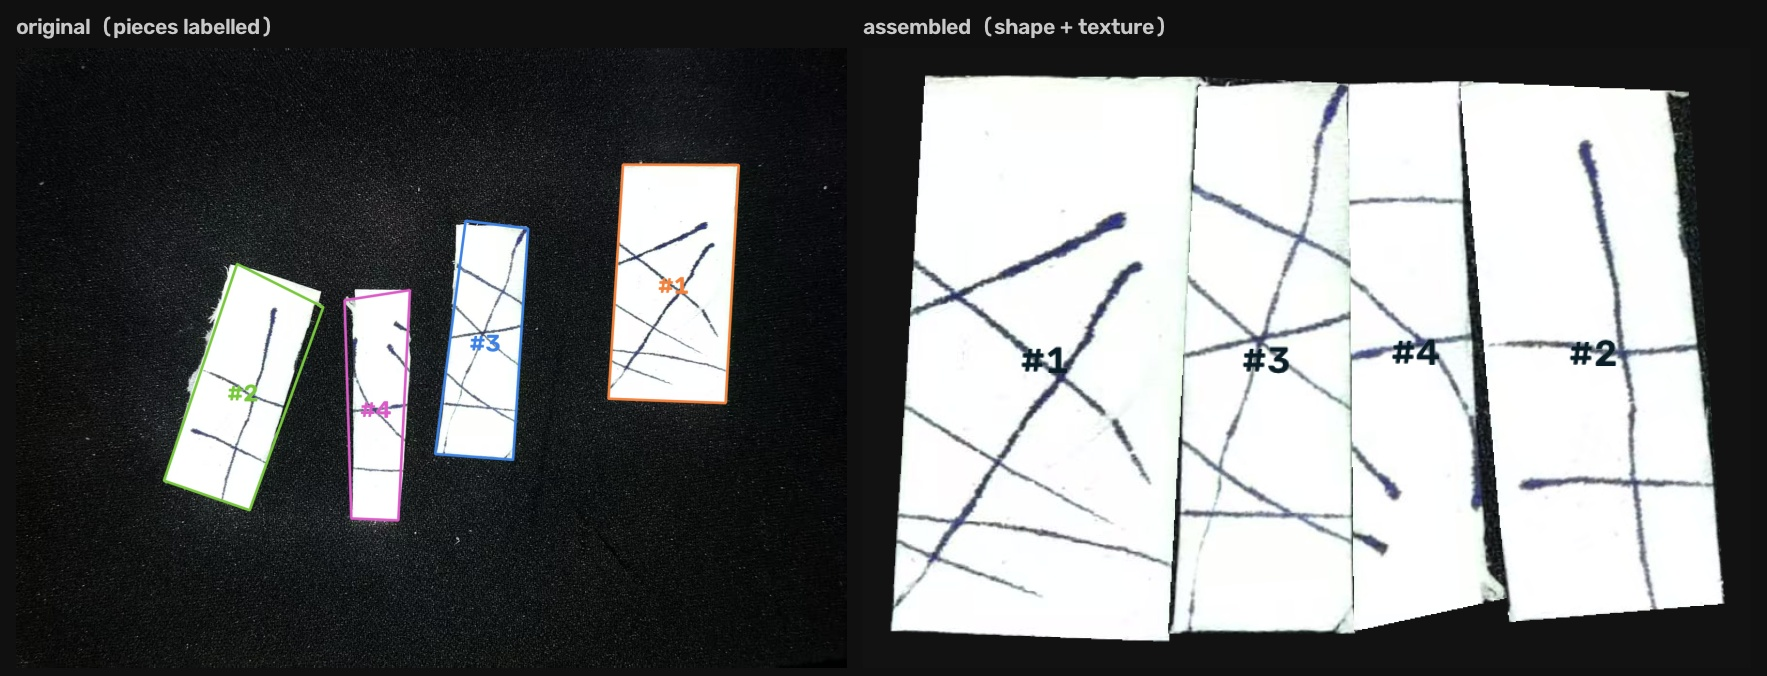
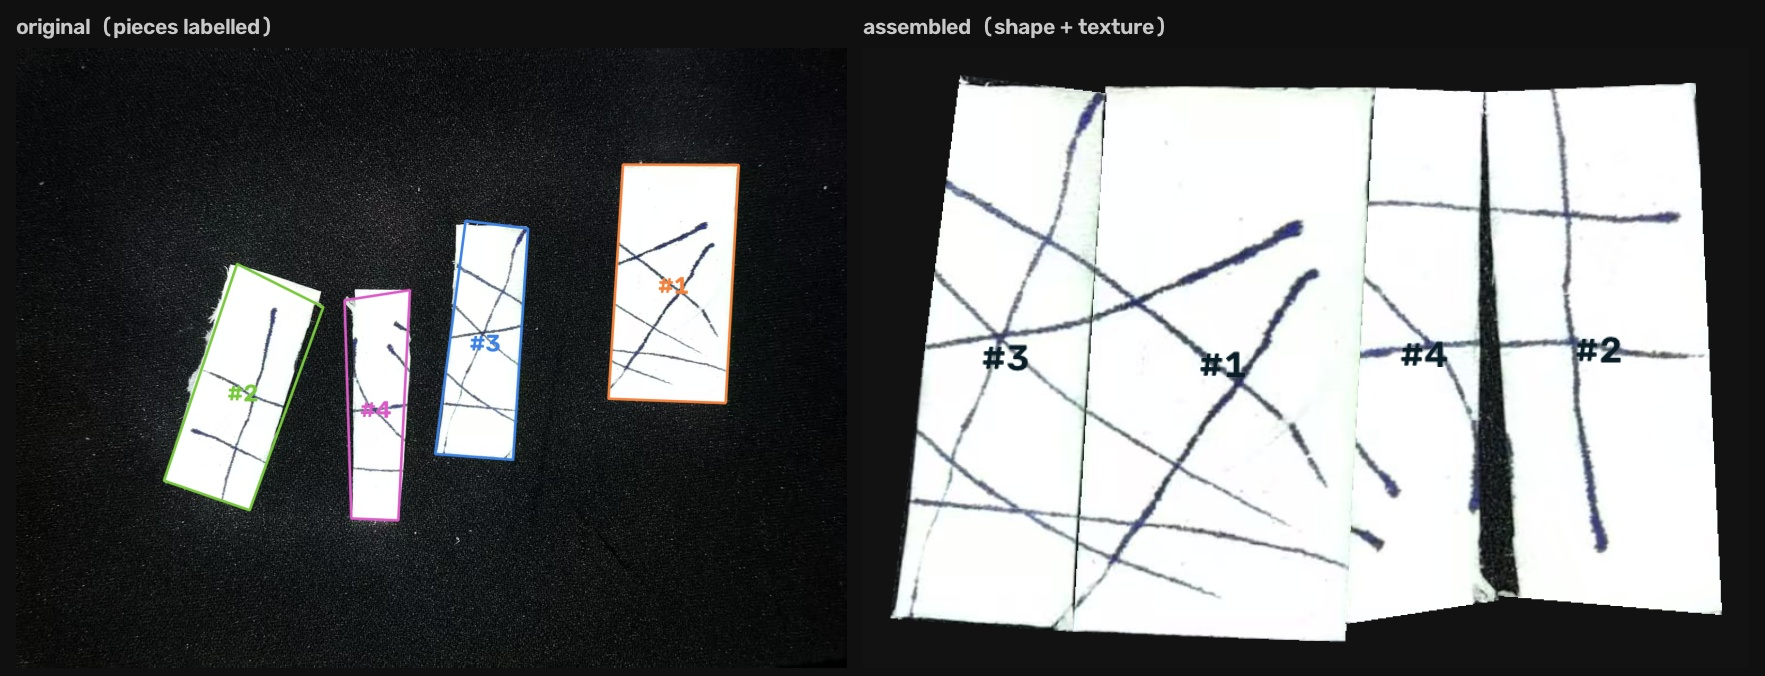
Revert "fix(拼装): 完整解排序改成「内部接触边总长最大」，修好「两个整体需要相对旋转才能接上」的情况"
This reverts commit 2774f76582a21e41ab2113fc2caf3682dd8f9cde.

diff --git a/纹理拼合/tools/irregular_cut.py b/纹理拼合/tools/irregular_cut.py
@@ -27,7 +27,6 @@ import cv2
 import numpy as np
 from scipy.spatial import Voronoi
 from shapely.geometry import Polygon as SPoly, box as sbox
-from shapely.ops import unary_union
 
 PROJ = Path(__file__).resolve().parents[2] / "拼图还原项目"
 SRC = PROJ / "src"
@@ -205,70 +204,9 @@ def _texture_cost(img, pose_a, pose_b, aw, bw, side, k: float = 0.35,
 
 
 
-def _rect_fill(polys: list[np.ndarray]) -> float:
-    """拼装结果和它的最小外接矩形有多贴合（0~1）。4 条撕裂纸条拼对了就该接近 1。"""
-    ps = [SPoly(p).buffer(0) for p in polys]
-    u = unary_union(ps)
-    rect = u.minimum_rotated_rectangle
-    return float(u.area / rect.area) if getattr(rect, "area", 0) else 0.0
-
-
-def _union_stats(polys: list[np.ndarray]) -> dict:
-    """并集的三个量：覆盖率（最大连通块占全部面积）、矩形贴合、空洞。
-
-    只看「矩形贴合」会被钻空子 —— 四块并排摆着但各不相连，并集的最小外接矩形
-    照样很大，贴合率能到 96%。所以必须同时要求**接成一片**（覆盖率≈1）。
-    """
-    ps = [SPoly(p).buffer(0) for p in polys]
-    total = sum(p.area for p in ps) or 1.0
-    u = unary_union(ps)
-    if u.geom_type == "MultiPolygon":
-        parts = sorted(u.geoms, key=lambda g: -g.area)
-        main, n_parts = parts[0], len(parts)
-    else:
-        main, n_parts = u, 1
-    rect = main.minimum_rotated_rectangle
-    holes = sum(abs(SPoly(r).area) for r in getattr(main, "interiors", []))
-    # 内部接触边总长：拼对了，块与块之间的共线接触最长（这是拼图最本质的判据）
-    shared = 0.0
-    for i in range(len(ps)):
-        for j in range(i + 1, len(ps)):
-            inter = ps[i].intersection(ps[j])
-            if inter.geom_type == "LineString":
-                shared += inter.length
-            elif inter.geom_type == "MultiLineString":
-                shared += sum(g.length for g in inter.geoms)
-    return {
-        "coverage": float(main.area / total),
-        "rect_fill": float(main.area / rect.area) if getattr(rect, "area", 0) else 0.0,
-        "holes_pct": float(holes / total * 100.0),
-        "components": n_parts,
-        "shared_px": float(shared),
-        "shared_ratio": float(shared / (sum(p.length for p in ps) or 1.0)),
-    }
-
-
-
 def assemble(pieces: dict, beam: int = 80, time_budget: float = 45.0,
              cov: float = 0.6, overlap_tol: float = 0.004,
-             img=None, tw: float = 0.0, tex_k: float = 0.35,
-             rank: str = "joined", collect: int = 0) -> dict | None:
-    """束搜索拼装。
-
-    rank 决定**在完整解之间**怎么选：
-      "joined" 内部接触边总长最大（默认，拼图最本质的判据）
-      "seam"   累计接缝代价最小（局部最优 —— 会被"局部拼得很好但整体错"骗过）
-      "rect"   最小外接矩形贴合率最高
-      "mixed"  seam 与 rect 的加权
-
-    为什么默认是 "joined"：真实的撕纸拼图里，#1+#3 和 #2+#4 可能各自拼得很好
-    （局部边长代价很低），但要把两个"整体"再接起来，需要整体相对旋转 ——
-    局部的边长代价给不出这个偏好，会停在「差一条边没接上」的解。
-    实测（手撕拼图.jpg，4 块）：
-      rank=seam   → 接触边 950px，2 条缝，空隙 2.89%，#2 旋转 155°（错）
-      rank=rect   → 接触边 36px（只靠角点相碰），空隙 1.69%（更差）
-      rank=joined → 接触边 1400px，3 条完整缝（485/465/450px），空隙 0.79%，#2 旋转 336°（对）
-    """
+             img=None, tw: float = 0.0, tex_k: float = 0.35) -> dict | None:
     ids = list(pieces)
     n = len(ids)
     seed = max(ids, key=lambda i: pieces[i].area)
@@ -276,7 +214,6 @@ def assemble(pieces: dict, beam: int = 80, time_budget: float = 45.0,
                [world(pieces[seed], 0.0, (0.0, 0.0))],
                {pid: set() for pid in ids}, 0.0)]
     deadline = time.time() + time_budget
-    complete: list[tuple] = []          # 所有见到的完整解（去重后）
 
     for level in range(2, n + 1):
         cands = []
@@ -296,7 +233,7 @@ def assemble(pieces: dict, beam: int = 80, time_budget: float = 45.0,
             if time.time() > deadline:
                 break
         if not cands:
-            break
+            return None
         cands.sort(key=lambda s: s[3])
         # 去重：同一套摆放（坐标四舍五入后一致）只留代价最低的
         seen, keep = set(), []
@@ -310,51 +247,18 @@ def assemble(pieces: dict, beam: int = 80, time_budget: float = 45.0,
             if len(keep) >= beam:
                 break
         states = keep
-        if level == n:
-            complete = keep[:max(collect, beam)]
         if time.time() > deadline:
             break
 
-    full = [s for s in complete if len(s[0]) == n] or \
-           [s for s in states if len(s[0]) == n]
+    full = [s for s in states if len(s[0]) == n]
     if not full:
         return None
-
-    # ---- 在完整解之间排序 ----
-    seams = [s[3] for s in full]
-    lo, hi = (min(seams), max(seams)) if seams else (0.0, 1.0)
-
-    def norm_seam(v: float) -> float:
-        return (v - lo) / (hi - lo) if hi - lo > 1e-9 else 0.0
-
-    def score(s) -> float:
-        if rank == "seam":
-            return norm_seam(s[3])
-        st = _union_stats(s[1])
-        if rank == "rect":
-            # 必须接成一片（coverage≈1）且贴合矩形；否则四块悬空摆也能拿高分
-            return (1.0 - st["coverage"]) * 3.0 + (1.0 - st["rect_fill"]) + st["holes_pct"] / 100.0
-        if rank == "joined":
-            # 主判据：内部接触边总长越大越好（拼图最本质），缺口/不连通重罚
-            pen = (1.0 - st["coverage"]) * 3.0 + st["holes_pct"] / 100.0
-            return -st["shared_ratio"] + pen
-        return (0.4 * norm_seam(s[3]) + (1.0 - st["coverage"]) * 3.0
-                + (1.0 - st["rect_fill"]))                     # mixed
-
-    full.sort(key=score)
+    full.sort(key=lambda s: s[3])
     placed, polys, _used, cost = full[0]
-    st = _union_stats(polys)
     return {"placed": [list(p) for p in placed],
             "polys": [p.tolist() for p in polys],
             "seam": cost,
-            "gap_pct": round(_gap_pct(polys), 2),
-            "rect_fill": round(st["rect_fill"], 4),
-            "coverage": round(st["coverage"], 4),
-            "components": st["components"],
-            "shared_px": round(st["shared_px"], 1),
-            "shared_ratio": round(st["shared_ratio"], 4),
-            "n_candidates": len(full)}
-
+            "gap_pct": round(_gap_pct(polys), 2)}
 
 
 def _gap_pct(polys: list[np.ndarray]) -> float:

diff --git a/纹理拼合/tools/handmade_puzzle.py b/纹理拼合/tools/handmade_puzzle.py
@@ -228,9 +228,6 @@ def main() -> int:
     ap.add_argument("--overlap", type=float, default=0.02,
                     help="允许的穿透比例（占块面积；手撕边近似为直线后会轻微重叠）")
     ap.add_argument("--texture-weight", type=float, default=1.0)
-    ap.add_argument("--rank", default="joined",
-                    choices=["joined", "seam", "rect", "mixed"],
-                    help="完整解之间的排序准则（joined=内部接触边最长，推荐）")
     ap.add_argument("--tex-k", type=float, default=4.0,
                     help="纹理采样距离（px）。拆开的纸片边缘有暗边带，太小会被暗边带偏")
     args = ap.parse_args()
@@ -267,8 +264,7 @@ def main() -> int:
     for tag, tw in (("纯形状", 0.0), ("形状+纹理", args.texture_weight)):
         sol = assemble(pieces, beam=args.beam, time_budget=args.time,
                        cov=args.cov, overlap_tol=args.overlap,
-                       img=(img_rgb if tw else None), tw=tw, tex_k=args.tex_k,
-                       rank=args.rank)
+                       img=(img_rgb if tw else None), tw=tw, tex_k=args.tex_k)
         if sol is None:
             print("%-9s 没有完整拼法" % tag)
             results[tag] = None
@@ -280,12 +276,10 @@ def main() -> int:
         name = "2_拼合结果_纯形状.jpg" if tw == 0 else "2_拼合结果_形状加纹理.jpg"
         imwrite_u(outdir / name, effect)
         print("%-9s 代价=%.3f  空隙=%.2f%%  重叠=%.2f%%  空洞=%.2f%%  矩形贴合=%.1f%%  "
-              "接触边=%.0fpx  接缝=%d 笔迹不连续=%.1f%%  → %s"
+              "接缝=%d 笔迹不连续=%.1f%%  → %s"
               % (tag, sol["seam"], sol["gap_pct"], q["overlap_pct"], q["holes_pct"],
-                 q["rect_fill_pct"], sol.get("shared_px", 0.0), ic["seams"],
-                 ic["mismatch_pct"], name))
+                 q["rect_fill_pct"], ic["seams"], ic["mismatch_pct"], name))
         results[tag] = {"seam": sol["seam"], "gap_pct": sol["gap_pct"], **q, **ic,
-                        "shared_px": sol.get("shared_px"), "rank": args.rank,
                         "file": name}
         (outdir / ("solution_纯形状.json" if tw == 0 else "solution_形状加纹理.json")).write_text(
             json.dumps({"placed": sol["placed"], "polys": sol["polys"],
